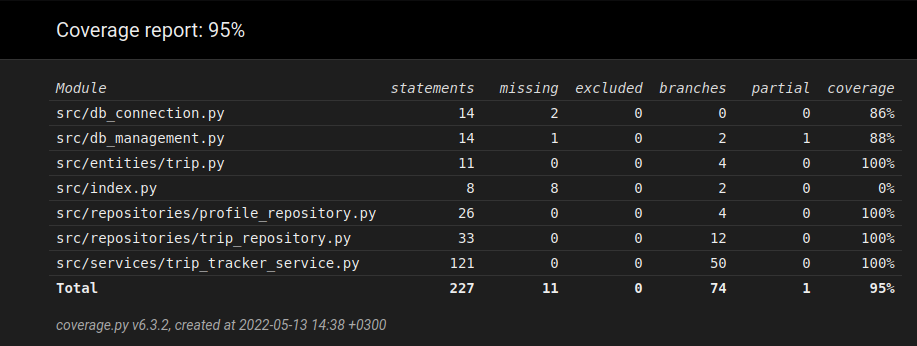
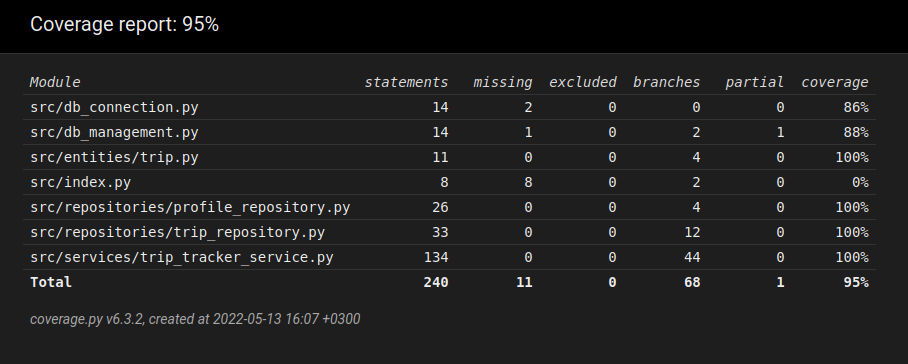
Significantly improve date/time validation

diff --git a/src/services/trip_tracker_service.py b/src/services/trip_tracker_service.py
@@ -1,3 +1,4 @@
+import datetime
 import re
 from repositories.profile_repository import profile_repository as default_profile_repository
 from repositories.trip_repository import trip_repository as default_trip_repository
@@ -202,26 +203,10 @@ class TripTrackerService:
         Returns:
             True, jos merkkijono validi. False muutoin.
         """
-        if self.valid_time(time):
-            return True
-        patterns = [re.compile(r"^\d{4}-\d{2}-\d{2} \d{2}$"),
-                    re.compile(r"^\d{4}-\d{2}-\d{2}$"),
-                    re.compile(r"^\d{4}-\d{2}$"),
-                    re.compile(r"^\d{4}$")]
-
-        negative_patterns = [re.compile(r"^0000.*$"),
-                             re.compile(r"\d{4}-00.*$"),
-                             re.compile(r"^\d{4}-\d{2}-00.*$")]
-
-        # Pylint virheiden poistaminen, koska funktio on helppo seurata nykyisessä tilassa
-        # ja muut ratkaisut olisivat pylintin miellyttämistä, eikä koodin parantamista.
-        for pattern in patterns:  # pylint: disable=too-many-nested-blocks
-            if pattern.match(time):
-                for neg_pattern in negative_patterns:
-                    if neg_pattern.match(time):
-                        return False
-                return True
-
+        pattern = re.compile(
+            r"^\d{4}(|-\d{2}(|-\d{2}(| \d{2}(|:\d{2}(|:\d{2})))))$")
+        if pattern.match(time):
+            return self._datetime_checker(time)
         return False
 
     def valid_time(self, time: str):
@@ -237,22 +222,10 @@ class TripTrackerService:
         Returns:
             True, jos merkkijono validi. False muutoin.
         """
-        patterns = [re.compile(r"^\d{4}-\d{2}-\d{2} \d{2}:\d{2}$"),
-                    re.compile(r"^\d{4}-\d{2}-\d{2} \d{2}:\d{2}:\d{2}$")]
 
-        negative_patterns = [re.compile(r"^0000.*$"),
-                             re.compile(r"\d{4}-00.*$"),
-                             re.compile(r"^\d{4}-\d{2}-00.*$")]
-
-        # Pylint virheiden poistaminen, koska funktio on helppo seurata nykyisessä tilassa
-        # ja muut ratkaisut olisivat pylintin miellyttämistä, eikä koodin parantamista.
-        for pattern in patterns:  # pylint: disable=too-many-nested-blocks
-            if pattern.match(time):
-                for neg_pattern in negative_patterns:
-                    if neg_pattern.match(time):
-                        return False
-                return True
-
+        pattern = re.compile(r"^\d{4}-\d{2}-\d{2} \d{2}:\d{2}(|:\d{2})$")
+        if pattern.match(time):
+            return self._datetime_checker(time)
         return False
 
     def adjust_end_time(self, end_time: str):
@@ -290,6 +263,38 @@ class TripTrackerService:
             self._selected_trips = self._trip_repository.find_by_profile(
                 self._profile_id, self._start_time, self._end_time)
             self._cache_invalid = False
+
+    # Yhdistää kahden julkisen tarkistus funktion yhteiset piirteet
+    def _datetime_checker(self, time: str):
+        negative_pattern = re.compile(r"^0000.*$")
+        if negative_pattern.match(time):
+            return False
+
+        date_time_arr = time.split(" ")
+        date_arr = date_time_arr[0].split("-")
+        while len(date_arr) < 3:
+            date_arr.append("01")
+
+        if len(date_time_arr) == 1:
+            time_arr = []
+        else:
+            time_arr = date_time_arr[1].split(":")
+        while len(time_arr) < 3:
+            time_arr.append("00")
+
+        year = int(date_arr[0])
+        month = int(date_arr[1])
+        day = int(date_arr[2])
+
+        hour = int(time_arr[0])
+        minute = int(time_arr[1])
+        second = int(time_arr[2])
+
+        try:
+            datetime.datetime(year, month, day, hour, minute, second)
+            return True
+        except ValueError:
+            return False
 
 
 trip_tracker_service = TripTrackerService()

diff --git a/src/tests/trip_tracker_service_test.py b/src/tests/trip_tracker_service_test.py
@@ -198,6 +198,10 @@ class TestTripTrackerService(unittest.TestCase):
         self.assertFalse(trip_tracker_service.valid_date_time("0000-01-03"))
         self.assertFalse(trip_tracker_service.valid_date_time("2022-00-03"))
         self.assertFalse(trip_tracker_service.valid_date_time("2022-01-00"))
+        self.assertFalse(trip_tracker_service.valid_date_time("2022-13-00"))
+        self.assertFalse(trip_tracker_service.valid_date_time("2022-01-32"))
+        self.assertFalse(trip_tracker_service.valid_date_time("2022-02-30"))
+        self.assertFalse(trip_tracker_service.valid_date_time("2022-02-30 25"))
 
     def test_valid_time(self):
         self.assertTrue(trip_tracker_service.valid_time("2022-01-03 12:00"))
@@ -213,6 +217,12 @@ class TestTripTrackerService(unittest.TestCase):
         self.assertFalse(trip_tracker_service.valid_time("0000-01-03 12:00"))
         self.assertFalse(trip_tracker_service.valid_time("2022-00-03 12:00"))
         self.assertFalse(trip_tracker_service.valid_time("2022-01-00 12:00"))
+        self.assertFalse(trip_tracker_service.valid_time("2022-13-00 12:00"))
+        self.assertFalse(trip_tracker_service.valid_time("2022-01-32 12:00"))
+        self.assertFalse(trip_tracker_service.valid_time("2022-01-01 25:00"))
+        self.assertFalse(trip_tracker_service.valid_time("2022-01-01 00:60"))
+        self.assertFalse(
+            trip_tracker_service.valid_time("2022-01-01 00:00:60"))
 
     def test_adjust_end_time(self):
         self.assertEqual(trip_tracker_service.adjust_end_time("A"), "")
